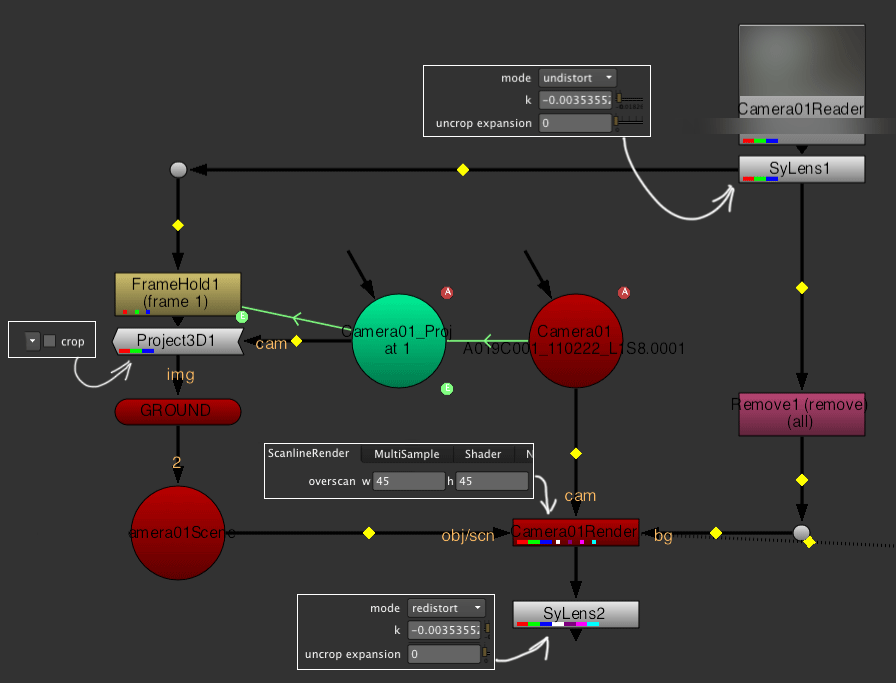
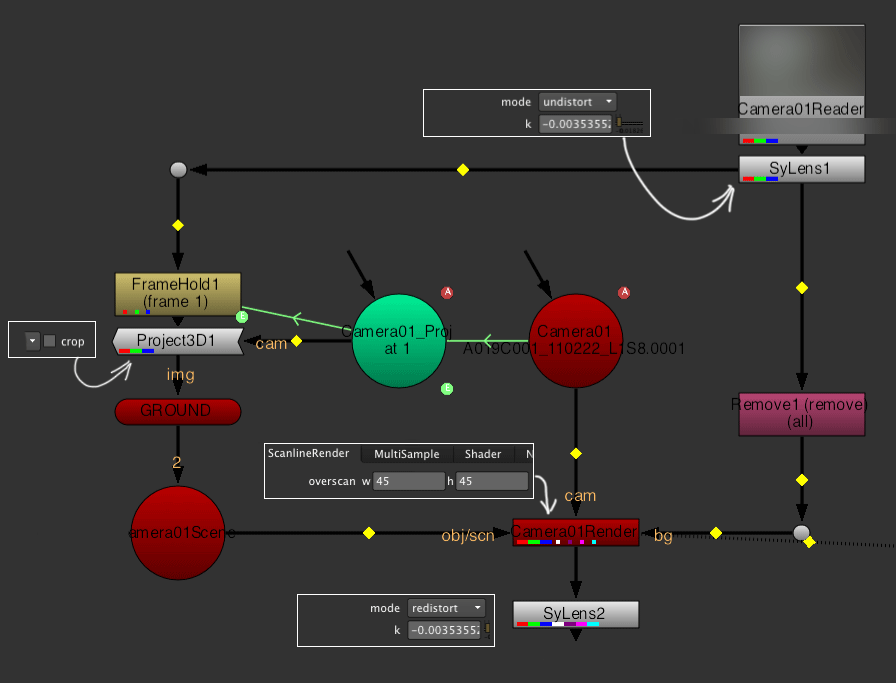
Add "grow format"

Changed region(s): [[0.5, 0.0922, 0.7188, 0.2152], [0.3438, 0.9224, 0.5938, 0.9839], [0.5938, 0.9224, 0.625, 0.9531]]

diff --git a/src/SyLens.cpp b/src/SyLens.cpp
@@ -57,6 +57,7 @@ class SyLens : public Iop
 	static const Iop::Description description;
 	
 	Filter filter;
+	Format output_format;
 	
 	enum { UNDIST, REDIST };
 	
@@ -70,8 +71,9 @@ class SyLens : public Iop
 	double centerpoint_shift_u_, centerpoint_shift_v_;
 	
 	// Stuff driven by knobbz
-	bool k_enable_debug_, k_trim_bbox_to_format_, k_only_format_output_;
+	bool k_trim_bbox_to_format_, k_only_format_output_, k_grow_format_;
 	int k_output;
+	int x_px_shift, y_px_shift;
 	
 	// The distortion engine
 	SyDistorter distorter;
@@ -80,7 +82,10 @@ public:
 	SyLens( Node *node ) : Iop ( node )
 	{
 		k_output = UNDIST;
+		k_grow_format_ = 0;
 		_aspect = 1.33f;
+		x_px_shift = 0;
+		y_px_shift = 0;
 	}
 	
 	void _computeAspects();
@@ -88,6 +93,7 @@ public:
 	void _request(int x, int y, int r, int t, ChannelMask channels, int count);
 	void engine( int y, int x, int r, ChannelMask channels, Row& out );
 	void knobs( Knob_Callback f);
+	int knob_changed(Knob*);
 	
 	// Hashing for caches. We append our version to the cache hash, so that when you update
 	// the plugin all the caches will be flushed automatically
@@ -131,7 +137,8 @@ double SyLens::toUv(double absValue, int absSide)
 	return x * 2;
 }
 
-double SyLens::fromUv(double uvValue, int absSide) {
+double SyLens::fromUv(double uvValue, int absSide)
+{
 	double value_off_corner = (uvValue / 2) + 0.5f;
 	return absSide * value_off_corner;
 }
@@ -152,57 +159,23 @@ void SyLens::centered_uv_to_absolute_px(Vector2& xy, int w, int h)
 
 // Get a coordinate that we need to sample from the SOURCE distorted image to get at the absXY
 // values in the RESULT
-void SyLens::distort_px_into_source(Vector2& absXY) {
+void SyLens::distort_px_into_source(Vector2& absXY)
+{
 	absolute_px_to_centered_uv(absXY, plate_width_, plate_height_);
 	distorter.apply_disto(absXY);
 	centered_uv_to_absolute_px(absXY, plate_width_, plate_height_);
 }
 
 // This is still a little wrongish but less wrong than before
-void SyLens::undistort_px_into_destination(Vector2& absXY) {
+void SyLens::undistort_px_into_destination(Vector2& absXY)
+{
 	absolute_px_to_centered_uv(absXY, plate_width_, plate_height_);
 	distorter.remove_disto(absXY);
 	centered_uv_to_absolute_px(absXY, plate_width_, plate_height_);
 }
- 
-// The image processor that works by scanline. Y is the scanline offset, x is the pix,
-// r is the length of the row. We are now effectively in the undistorted coordinates, mind you!
-void SyLens::engine ( int y, int x, int r, ChannelMask channels, Row& out )
+int SyLens::knob_changed(Knob* k)
 {
-	
-	foreach(z, channels) out.writable(z);
-	
-	Pixel pixel(channels);
-	const float sampleOff = 0.5f;
-	
-	Vector2 sampleFromXY(0.0f, 0.0f);
-	for (; x < r; x++) {
-		
-		sampleFromXY = Vector2(x, y);
-		if( k_output == UNDIST) {
-			distort_px_into_source(sampleFromXY);
-		} else {
-			undistort_px_into_destination(sampleFromXY);
-		}
-		
-		// Sample from the input node at the coordinates
-		// half a pixel has to be added here because sample() takes the first two
-		// arguments as the center of the rectangle to sample. By not adding 0.5 we'd
-		// have to deal with a slight offset which is *not* desired.
-		input0().sample(
-			sampleFromXY.x + sampleOff , sampleFromXY.y + sampleOff, 
-			1.0f, 
-			1.0f,
-			&filter,
-			pixel
-		);
-		
-		// write the resulting pixel into the image
-		foreach (z, channels)
-		{
-			((float*)out[z])[x] = pixel[z];
-		}
-	}
+	return Iop::knob_changed(k);
 }
 
 // knobs. There is really only one thing to pay attention to - be consistent and call your knobs
@@ -224,15 +197,18 @@ void SyLens::knobs( Knob_Callback f) {
 	distorter.knobs(f);
 	filter.knobs(f);
 	
-	// Utility functions
+	// Trim bbox
 	Knob* kTrimKnob = Bool_knob( f, &k_trim_bbox_to_format_, "trim");
 	kTrimKnob->label("trim bbox");
 	kTrimKnob->tooltip("When checked, SyLens will crop the output to the format dimensions and reduce the bbox to match format exactly");
 	kTrimKnob->set_flag(KNOB_ON_SEPARATE_LINE);
 	
-	Knob* k_enable_debug_Knob = Bool_knob( f, &k_enable_debug_, "debug");
-	k_enable_debug_Knob->label("debug info");
-	k_enable_debug_Knob->tooltip("When checked, SyLens will output various debug info to STDOUT");
+	// Grow plate
+	Knob* kGrowKnob = Bool_knob( f, &k_grow_format_, "grow");
+	kGrowKnob->label("grow format");
+	kGrowKnob->tooltip("When checked, SyLens will expand the actual format of the image along with the bbox."
+		"\nThis is useful if you are going to do a matte painting of the output.");
+	kGrowKnob->set_flag(KNOB_ON_SEPARATE_LINE);
 	
 	Divider(f, 0);
 	
@@ -256,8 +232,6 @@ void SyLens::_computeAspects() {
 	plate_height_ = round(f.height());
 
 	_aspect = float(plate_width_) / float(plate_height_) *  f.pixel_aspect();
-	
-	if(k_enable_debug_) printf("SyLens: true plate window with uncrop will be %dx%d\n", plate_width_, plate_height_);
 }
 
 	
@@ -265,6 +239,7 @@ void SyLens::_computeAspects() {
 // pay attention
 void SyLens::_validate(bool for_real)
 {
+
 	// Bookkeeping boilerplate
 	filter.initialize();
 	input0().validate(for_real);
@@ -279,8 +254,6 @@ void SyLens::_validate(bool for_real)
 	
 	distorter.set_aspect(_aspect);
 	distorter.recompute_if_needed();
-	
-	if(k_enable_debug_) printf("SyLens: _validate info box to  %dx%d\n", plate_width_, plate_height_);
 	
 	// Time to define how big our output will be in terms of format. Format will always be the whole plate.
 	// If we only use a bboxed piece of the image we will limit our request to that. But first of all we need to
@@ -299,7 +272,28 @@ void SyLens::_validate(bool for_real)
 	// apply our SuperAlgorizm to the bbox as well and move the bbox downstream too.
 	// Grab the bbox from the input first
 	Info inf = input0().info();
-	Format f = input0().format();
+	output_format = input0().format();
+	
+	x_px_shift = 0;
+	y_px_shift = 0;
+
+	// If we need to grow the plate, do it here.
+	if(k_grow_format_ && k_output == UNDIST) {
+		
+		// Determine the offset of the left bottom corner
+		Vector2 corner(0.0f, 0.0f);
+		undistort_px_into_destination(corner);
+		// Only do it if we need to make the plate bigger
+		if(corner.x < 0.0f || corner.y < 0.0f) {
+			int out_width = ow + (2 * round(fabs(corner.x)));
+			int out_height = oh + (2 * round(fabs(corner.y)));
+			
+			output_format = Format(out_width, out_height, output_format.pixel_aspect());
+			x_px_shift = out_width - ow;
+			y_px_shift = out_height - oh;
+			info_.format(output_format);
+		}
+	}
 	
 	// Just distorting the four corners of the bbox is NOT enough. We also need to find out whether
 	// the bbox intersects the centerlines. Since the distortion is the most extreme at the centerlines if
@@ -356,13 +350,18 @@ void SyLens::_validate(bool for_real)
 	minY = *std::min_element(yValues.begin(), yValues.end());
 	maxY = *std::max_element(yValues.begin(), yValues.end());
 	
+	if(k_grow_format_) {
+		minX -= x_px_shift;
+		minY -= y_px_shift;
+		maxX += x_px_shift;
+		maxY += y_px_shift;
+	}
+	
 	Box obox(minX, minY, maxX, maxY);
 	
 	// If trim is enabled we intersect our obox with the format so that there is no bounding box
 	// outside the crop area. Thiis handy for redistorted material.
-	if(k_trim_bbox_to_format_) obox.intersect(input0().format());
-	
-	if(k_enable_debug_) printf("SyLens: output bbox is %dx%d to %dx%d\n", obox.x(), obox.y(), obox.r(), obox.t());
+	if(k_trim_bbox_to_format_ || k_grow_format_) obox.intersect(output_format);
 	
 	info_.set(obox);
 }
@@ -370,10 +369,11 @@ void SyLens::_validate(bool for_real)
 void SyLens::_request(int x, int y, int r, int t, ChannelMask channels, int count)
 {
 	
-	if(k_enable_debug_) printf("SyLens: Received request %d %d %d %d\n", x, y, r, t);
-	ChannelSet c1(channels); in_channels(0,c1);
+	ChannelSet c1(channels);
+	in_channels(0,c1);
 	
-	Vector2 bl(x, y), br(r, y), tr(r, t), tl(x, t);
+	// Honor the shift we need to apply if we change the output format
+	Vector2 bl(x-x_px_shift, y-y_px_shift), br(r-x_px_shift, y+y_px_shift), tr(r+x_px_shift, t+y_px_shift), tl(x-x_px_shift, t+y_px_shift);
 	
 	if(k_output == UNDIST) {
 		distort_px_into_source(bl);
@@ -399,4 +399,44 @@ void SyLens::_request(int x, int y, int r, int t, ChannelMask channels, int coun
 		round(tr.y + safetyPadding),
 		channels, count
 	);
+}
+
+// The image processor that works by scanline. Y is the scanline offset, x is the pix,
+// r is the length of the row. We are now effectively in the undistorted coordinates, mind you!
+void SyLens::engine ( int y, int x, int r, ChannelMask channels, Row& out )
+{
+	
+	foreach(z, channels) out.writable(z);
+	
+	Pixel pixel(channels);
+	
+	Vector2 sampleFromXY(0.0f, 0.0f);
+	for (; x < r; x++) {
+		
+		sampleFromXY = Vector2(x - (x_px_shift/2), y - (y_px_shift/2));
+		
+		if( k_output == UNDIST) {
+			distort_px_into_source(sampleFromXY);
+		} else {
+			undistort_px_into_destination(sampleFromXY);
+		}
+		
+		// Sample from the input node at the coordinates
+		// half a pixel has to be added here because sample() takes the first two
+		// arguments as the center of the rectangle to sample. By not adding 0.5 we'd
+		// have to deal with a slight offset which is *not* desired.
+		input0().sample(
+			sampleFromXY.x + 0.5f, sampleFromXY.y + 0.5f, 
+			1.0f, 
+			1.0f,
+			&filter,
+			pixel
+		);
+		
+		// write the resulting pixel into the image
+		foreach (z, channels)
+		{
+			((float*)out[z])[x] = pixel[z];
+		}
+	}
 }

diff --git a/src/SyDistorter.cpp b/src/SyDistorter.cpp
@@ -125,11 +125,10 @@ void SyDistorter::apply_disto(Vector2& pt)
 	LutTuple* left = NULL;
 	LutTuple* right = NULL;
 	
-	// Only iterate as long as the points are not found
+	// Find the neihgbouring defined points in the LUT
 	for(tuple_it = lut.begin(); 
 		tuple_it != lut.end() && !(left && right); 
 		tuple_it++) {
-		// If the tuple is less than r2 we found the first element
 		if((*tuple_it)->r < r) {
 			left = *tuple_it;
 		}
@@ -142,13 +141,14 @@ void SyDistorter::apply_disto(Vector2& pt)
 	
 	// If we could not find neighbour points just compute it
 	if(left && right) {
-		// TODO: spline interpolation instead using neighbouring pts
+		// TODO: spline interpolation instead of linear
 		f = lerp(r, left->r, right->r, left->f, right->f);
 	} else {
 		f = distort_radial(r);
 	}
 	
 	// Bracket in centerpoint adjustment
+	// move camera gate -> distort -> move camera gate back
 	pt.x -= center_shift_u_;
 	pt.y -= center_shift_v_;
 	
